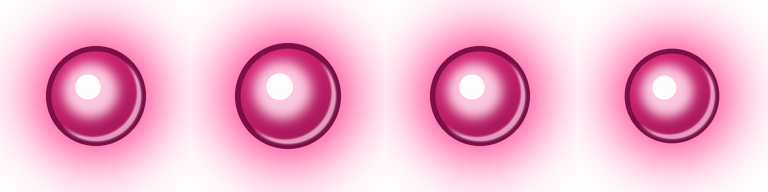
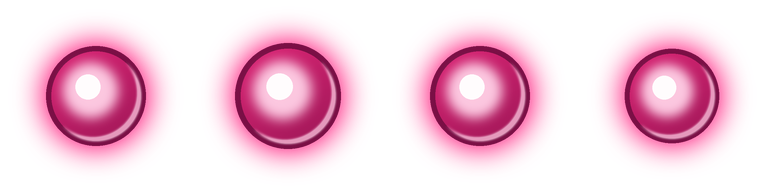
NeonWarden: progress report, in-game benchmarks, screenshots, orb/bolt glow fix, sample docs

diff --git a/Samples/NeonWarden/scripts/Projectiles.js b/Samples/NeonWarden/scripts/Projectiles.js
@@ -15,7 +15,7 @@ export class Bolt extends Actor {
     start() {
         this.transform.position = new Vector2(this.px, this.py);
         this.transform.rotation = this.angle * 180 / Math.PI;
-        this.transform.size = new Vector2(84, 25);
+        this.transform.size = new Vector2(84, 34);
         this.main = this.addComponent(mkSprite('bolt.png', { order: 4, blend: 'additive' }));
         this.main.anchorX = 0.85;
         this.addComponent(new TrailRenderer({ lifetime: 0.12, minDistance: 8, startWidth: 7, endWidth: 0, startColor: '#bff6ff', endColor: '#33e6ff', blendMode: 'additive', sortingOrder: 3 }));

diff --git a/Tools/neon-warden/make_art.py b/Tools/neon-warden/make_art.py
@@ -180,7 +180,7 @@ def orb_frame(i, S, col, col_w, col_d, n=4):
     cv = Cv(S, S); cx = cy = S / 2
     pulse = 0.5 + 0.5 * math.sin(i / n * 2 * math.pi)
     r = S * (0.22 + 0.025 * pulse)
-    cv.glow(cv.circle_mask(cx, cy, r * 1.3), col, S * 0.16, 0.9)
+    cv.glow(cv.circle_mask(cx, cy, r * 1.15), col, S * 0.075, 0.95)
     cv.paint(cv.circle_mask(cx, cy, r * 1.12), col_d)
     sph = cv.circle_mask(cx, cy, r)
     cv.gradient_fill(sph, col, col_d, 60)
@@ -196,17 +196,17 @@ def make_orbs():
     save_sheet([orb_frame(i, 192, MAG, MAG_W, MAG_D) for i in range(4)], 'bigorb.png')
 
 def make_bolt():
-    W, H = 160, 48
+    W, H = 160, 64; cy = 32
     cv = Cv(W, H)
-    # tail fades toward -x; head bright at the right
-    tail = cv.poly_mask([(10, 24), (120, 19), (150, 24), (120, 29)]).filter(ImageFilter.GaussianBlur(2.2 * cv.ss))
-    cv.glow(tail, CYAN, 9, 1.0)
+    # tail fades toward -x; head bright at the right. Glow radii are kept small so nothing is clipped by the sprite bounds.
+    tail = cv.poly_mask([(10, cy), (120, cy - 5), (150, cy), (120, cy + 5)]).filter(ImageFilter.GaussianBlur(2.2 * cv.ss))
+    cv.glow(tail, CYAN, 6, 1.0)
     grad = grad_img(cv.size, (51, 230, 255, 0), (51, 230, 255, 255), 0)
     cv.paint(tail, grad)
-    core = cv.poly_mask([(40, 24), (126, 21.2), (148, 24), (126, 26.8)]).filter(ImageFilter.GaussianBlur(0.8 * cv.ss))
+    core = cv.poly_mask([(40, cy), (126, cy - 2.8), (148, cy), (126, cy + 2.8)]).filter(ImageFilter.GaussianBlur(0.8 * cv.ss))
     cv.paint(core, grad_img(cv.size, (216, 251, 255, 0), (255, 255, 255, 255), 0))
-    head = cv.circle_mask(140, 24, 6.5)
-    cv.emissive(head, CYAN_W, 9, 0.9, WHITE)
+    head = cv.circle_mask(140, cy, 6.5)
+    cv.emissive(head, CYAN_W, 7, 0.9, WHITE)
     cv.save('bolt.png')
 
 # =========================================================================================== glows (256), rings (512), beams, aim

diff --git a/docs/showcase/neon-warden/PROGRESS.md b/docs/showcase/neon-warden/PROGRESS.md
@@ -1,0 +1,54 @@
+# Neon Warden: progress
+
+Branch `showcase/neon-warden`, worktree `/Users/jurikiin/Documents/GitHub/Piston-showcase`. Nothing was pushed. The main checkout was not touched.
+
+## What exists
+| Area | State |
+|---|---|
+| `DESIGN.md` | concept, art direction, effects, animation list, mechanics, flow, audio plan, perf budget, 29-row engine gap table |
+| `BENCHMARKS.md` + `bench/` | Canvas2D micro-benchmarks, engine collision benchmark, in-game stress test |
+| Engine additions (generic, tested, documented in `EditorDocs/15-rendering-effects.md`) | broadphase fix; `SpriteRenderer.blendMode/.flash`; `ParticleEmitter` texture/blend/drag/spin/size variation; `TrailRenderer`; `PostProcess` (bloom, ambient lighting, grade, tint, vignette, chromatic aberration, flash); `Light2D`; `gameLoop.timeScale` |
+| `Samples/NeonWarden` | a playable game: title, intro, wave 1 (drones), wave 2 (turrets), the Warden boss (3 phases), win and lose screens, restart |
+| `Tools/neon-warden` | `make_art.py` (all sprites + floor), `make_audio.py` (21 SFX + 2 music loops), `make_scenes.py`, `preview.py`, `rebuild.sh` |
+| Screenshots | `shots/` (real captures from the running game in the Browser pane, plus art contact sheets) |
+
+## Verified, and how
+* `node Engine/web/tests/*.test.mjs`: all 13 files pass (new: `spatial-grid`, `trail`, `postprocess`, `rendering-effects`). These use mock canvases: they prove call sequences and maths, not pixels.
+* `./Piston.app/Contents/MacOS/Piston --selftest`: first run had 2 failures (`getBounds returns screen rect for selection`, `applyPatch moves entity; bounds follow`), rerun: **ALL CHECKS PASSED** (107 checks). The two failing checks are the known timing-sensitive editor ones; I did not find a link to my changes but cannot rule out a rare race.
+* The game builds (`--build`, 159 files, 9.9 MB) and runs in the Browser pane (Chromium 152, Metal GPU), with no console errors. Played and checked by simulating input events from JavaScript (key/mouse events on `window`) and reading `window.NeonWarden` state:
+  * title -> click -> arena; intro message; wave 1 drones spawn, chase, telegraph, dive; bolts kill them and score/combo count up.
+  * wave 2: four turrets rise, track, charge (aim line), fire amber fans. (Jumped to with `NeonWarden.director.enter('wave2'); .spawnTurrets()`.)
+  * boss: spawns with shockwave rings, chain unfurls, fan attacks, shockwave rings at 66 %, laser at 33 % ("ENRAGED" shown; the laser beam itself I did not capture on screen), segments break (HP bar chip animation), head dies -> chain explosion, slow-mo, flash, "WARDEN DOWN" with results.
+  * lose: five hits -> explosion, "SYSTEM FAILURE", R restarts the scene (state back to `intro`, HP 5).
+  * Game was driven with a bot that aims perfectly, so **balance is untested by a human**; the boss died in about 15 s of perfect aim with the player invulnerable.
+* Performance (see BENCHMARKS.md): 60 fps held with 530 orbs + explosions; 1,000 stationary orbs 6.1 ms; the engine breaks 60 fps at about 2,000 entities.
+
+## Not verified / known gaps in the slice
+* **No human playtest. Audio was synthesised but never listened to** (no ears here): levels, loop seams and the quality of the music are assumed, not checked. The code ran without audio errors.
+* Not opened in the editor GUI (Inspector, Animation panel, Scene view with PostProcess). The `--selftest` editor checks passed with the new engine, the scenes use only registered components, and the editor shares the same loop, but I did not look.
+* The Warden laser beam, the turret aim-line draw path and some phase transitions were exercised in code paths but I only have screenshots of the earlier phases.
+* Retina/4K sharpness was not inspected on a 4K display; sprites are authored at 2x display size.
+* Sprite art is good but not hand-polished: the Warden head reads a bit like a fish; baked lighting rotates with the sprite (no normal maps), sprite shadows are blobs.
+* Lights cast no shadows; bloom is 8-bit (no HDR).
+* The game uses the editor's Play/Stop snapshot poorly: entities spawned at runtime are not part of the edit snapshot (they are rebuilt when the scene reloads, which the game does itself).
+
+## Run it
+```bash
+cd /Users/jurikiin/Documents/GitHub/Piston-showcase
+./bundle.sh                                              # about a minute; already built in this worktree
+./Piston.app/Contents/MacOS/Piston --build Samples/NeonWarden
+./Piston.app/Contents/MacOS/Piston --serve Samples/NeonWarden/dist/web   # prints http://127.0.0.1:PORT/ ; open it in a browser
+```
+Or in the editor: run this worktree's app (`./Piston.app/Contents/MacOS/Piston`, directly rather than via `open`, because both apps share a bundle id), then Open Project and choose `Samples/NeonWarden`.
+Controls: WASD move, mouse aim, hold mouse or J to fire, Space/Shift dash, R restart, Esc title. Debug handle in the browser console: `NeonWarden` (state, player, boss, `director.enter('wave2')`, `director.toBoss()`).
+Regenerate assets: `python3 Tools/neon-warden/make_art.py && python3 Tools/neon-warden/make_audio.py && python3 Tools/neon-warden/make_scenes.py`.
+
+## Engine gap list: recommended build order
+1. **Fixed time step + dt-scaled physics + swept circles (8, M, P0).** Everything else is built on a deterministic loop; today speed depends on refresh rate.
+2. **Entity pipeline performance (18, 25, 11, 29: M).** Cached sort lists, `active` flag, pooling, kinematic bodies. The ceiling is ~1,500 entities.
+3. **Small P0 fixes: spawn-from-start (22), collider debug default (24), input edges (23): S each, one day total.**
+4. **Joints / chains / ropes (9, L)** then **soft bodies (10, L)**: the Warden's chain is hand-rolled follow logic; a `DistanceJoint` + `RopeChain` would replace `layoutChain` and give real physical interaction.
+5. **Texture atlas + sprite tint (12, 19: M+S)**, prerequisite for batching.
+6. **WebGL2 `Renderer` backend (13, L)** (design in BENCHMARKS.md). Unlocks normal-mapped lights (14), shadows (15), HDR bloom, distortion, phones.
+7. Text effects (26), richer particles (27), audio layering/ducking (20), camera features (28): M each, quality-of-life.
+8. Tilemaps and parallax (16), skeletal animation (17): needed for other game types, not this one.

diff --git a/EditorDocs/16-neon-warden-sample.md b/EditorDocs/16-neon-warden-sample.md
@@ -1,0 +1,29 @@
+# The Neon Warden sample
+
+A one-arena twin-stick shooter built to push Piston's graphics: additive glow, dynamic lights, bloom, trails, hundreds of projectiles and a segmented boss. It is both a game and a test of what the engine still lacks (see `docs/showcase/neon-warden/` in the Piston repository for the design, benchmarks and the engine gap list).
+
+**Play:** open the project (Hub, or File > Open the `Samples/NeonWarden` folder), press Play. WASD moves, the mouse aims, hold the mouse (or J) to fire, Space or Shift dashes (you are invulnerable while dashing, and a dash is how you cross the boss's shockwave rings). R restarts after a win or loss, Esc returns to the title.
+
+**The fight:** a drone swarm, then four turrets, then THE WARDEN: a head, ten armoured segments and a tail core on a figure-eight. Shooting segments breaks them (each costs the head 2 hit points as well); at two thirds health it adds shockwave rings, at one third a sweeping laser.
+
+## How it is put together
+
+| Piece | Where | Engine features it uses |
+|---|---|---|
+| Floor, arena glow, camera | `scenes/arena.json`, `scenes/title.json` | `SpriteRenderer` (additive blend), `Animator` (glow pulse), `Camera`, **`PostProcess`** (bloom, ambient light, vignette, grade, chromatic aberration) |
+| Player, drones, turrets, boss | `scripts/Player.js`, `Enemies.js`, `Boss.js` | sprite sheets with `SpriteAnimator`, `Light2D`, `TrailRenderer`, `ParticleEmitter`, trigger colliders on collision layers, `Animator` spawn/sink clips |
+| Bolts and orbs | `scripts/Projectiles.js` | `SpriteRenderer` additive, `TrailRenderer`, `Light2D`, trigger colliders |
+| Effects | `scripts/Fx.js` | 16-frame explosion sheets, textured additive particles with drag and spin, `Animator`-driven shockwave rings |
+| Game feel | `scripts/Game.js`, `Director.js` | camera shake, zoom punch, hit-stop and slow-mo through `Piston.gameLoop.timeScale`, post-process fields animated from code |
+| HUD | `scripts/Director.js` | `UIElement` + `Text` + `SpriteRenderer`, `Animator` for messages |
+
+Game feel (shake, hit-stop, enemy behaviour) is game code on purpose: the engine only provides generic pieces. See *Rendering effects* for the components.
+
+## Rebuilding the art, sounds and scenes
+```bash
+python3 Tools/neon-warden/make_art.py      # all sprites and the floor (about 15 s)
+python3 Tools/neon-warden/make_audio.py    # sound effects and the two music loops (about 5 s)
+python3 Tools/neon-warden/make_scenes.py   # scenes/*.json
+python3 Tools/neon-warden/preview.py /tmp  # contact sheets of the art, for a quick look
+```
+Everything is generated by code (Pillow, no other dependencies, no downloaded assets).

diff --git a/docs/showcase/neon-warden/DESIGN.md b/docs/showcase/neon-warden/DESIGN.md
@@ -138,4 +138,12 @@ Effort: S = under a day, M = a few days, L = a week or more. Priority: P0 blocks
 | 18 | Entity render loop allocates per frame | filter+sort per frame, per-entity component copy | cached sorted lists, dirty flags | M | P1 | Measured, documented |
 | 19 | Sprite tint / colour multiply | team colours, damage colours | `SpriteRenderer.tint` | S | P1 | Use baked variants |
 | 20 | Audio: music layering, looping with loop points, bus ducking, reverb | boss music switch, ducking | `audio.crossfade`, `setBusDuck` | S-M | P1 | Game-side |
+| 22 | Entities spawned from `start()` are silently lost (the scene loader replaces the entity list after instantiation) | the Director had to move its setup into its first `update()` | `onSceneReady()` hook, or make `GameLoop.add` safe during load | S | P0 | Game-side workaround |
+| 23 | Input reports held keys only; a fast tap between frames is missed; no gamepad | restart/confirm keys | `input.wasPressed/wasReleased` edges, gamepad axes | S | P1 | Game-side `Taps` helper |
+| 24 | `Debug.showColliders` defaults to true, so a built game draws collider outlines | looked like green debug rings on every body | default false outside the editor | S | P0 | Game turns it off |
+| 25 | No per-entity enable/visible flag; destroyed entities are swept only at frame start | pooling, hiding | `entity.active` honoured by update/render/collide | S | P1 | Not built |
+| 26 | Text has no outline/shadow/glow, bold, or letter spacing; fonts beyond generics need Google Fonts or a bundled file | HUD and titles that match the neon look | `Text.stroke`, `Text.shadow`, `Text.glow` | M | P1 | Logo baked into a PNG |
+| 27 | Particles: one texture per emitter, no sprite-sheet frames, no sub-emitters, no per-particle trails, no colour-over-life curve beyond two colours | richer explosions | `ParticleEmitter.frames`, `.trail`, gradients | M | P2 | Several emitters per effect |
+| 28 | Camera has no rotation, no built-in shake/trauma, no bounds/deadzone/multi-target | game-feel | `Camera.rotation`, shake as a generic offset layer | S | P2 | Game-side |
+| 29 | Rigidbody friction/velocity are per frame (see 8); `Entity.update` always runs `rigidbody.update` even for kinematic movers | wasted work for hundreds of script-moved bodies | `rigidbody.kinematic` | S | P1 | Game moves bodies itself |
 | 21 | Editor: no way to author Light2D/PostProcess gizmos or preview lights in Scene view | | Scene view renders post stack | M | P2 | Works for free (same loop), untested in editor |

diff --git a/docs/showcase/neon-warden/BENCHMARKS.md b/docs/showcase/neon-warden/BENCHMARKS.md
@@ -77,3 +77,25 @@ over ~10k draw calls on weak GPUs). Sketch of how it plugs in without breaking e
 * `GameLoop` picks the renderer from `project.piston.json` (`"renderer": "canvas2d" | "webgl2" | "auto"`), and the post-process stack (`PostProcess`, `Light2D`) is written against
   the `Renderer` interface so the same components get real shaders on WebGL2 and the cheap Canvas2D approximation otherwise.
 * Prerequisite: the texture atlas / image pool (gap list), since batching needs few textures.
+
+## In-game stress test (the real game, real engine)
+
+Measured in the built Neon Warden (boss phase, player invulnerable, 1920x1080 canvas in a 1280x720 pane, M4 Pro), by wrapping `gameLoop.update` with a timer
+(script time for simulation + issuing all draw calls; GPU time hides behind vsync) and sampling `requestAnimationFrame` intervals. Every orb is a full entity: sprite sheet
+renderer + `Light2D` + circle trigger collider, all drawn through the bloom + lighting pipeline.
+
+| Stationary orbs on screen | Entities | `update()` ms (avg / p95) | rAF interval ms | Verdict |
+|---|---|---|---|---|
+| ~50 (normal play) | ~100 | under 1 | 16.7 | |
+| 500 | 539 | 3.2 / 3.5 | 16.7 | holds 60 fps |
+| 1,000 | 1,043 | 6.1 / 6.4 | 16.7 | holds 60 fps |
+| 2,000 | 2,047 | 17.2 / 18.2 | 17.5 | **breaks 60 fps** (this is the engine's per-entity ceiling) |
+| 3,000 | 3,047 | 45.9 / 67.3 | 46 | ~22 fps |
+| 4,500 | 4,547 | 115 / 152 | 115 | slideshow: cost is super-linear (collision narrowphase on a dense cloud) |
+
+Also measured during a burst-spawn stress (16 orbs every 120 ms moving outward, plus an explosion every 0.5 s with textured additive sparks, smoke and debris):
+530 orbs, 602 entities, 1,189 components, 371 particles alive: `update()` 3.3 ms avg / 4.1 p95, rAF 16.68 ms avg, p95 18.5 ms. 60 fps held.
+
+Conclusions: the engine's per-entity cost is about 6 us (1,000 entities = 6 ms) and grows super-linearly past ~1,500 entities, so **about 1,500 simultaneous entities is the real
+ceiling for a 60 fps game today** (the draw calls themselves are cheap; the cost is entity update/render bookkeeping and the collision pass). The game uses about 100-250
+entities in normal play, i.e. 10-15 % of that. The bloom + lightmap pipeline costs well under 1 ms of script time and was not visible as a GPU cost at 60 Hz on this machine.
